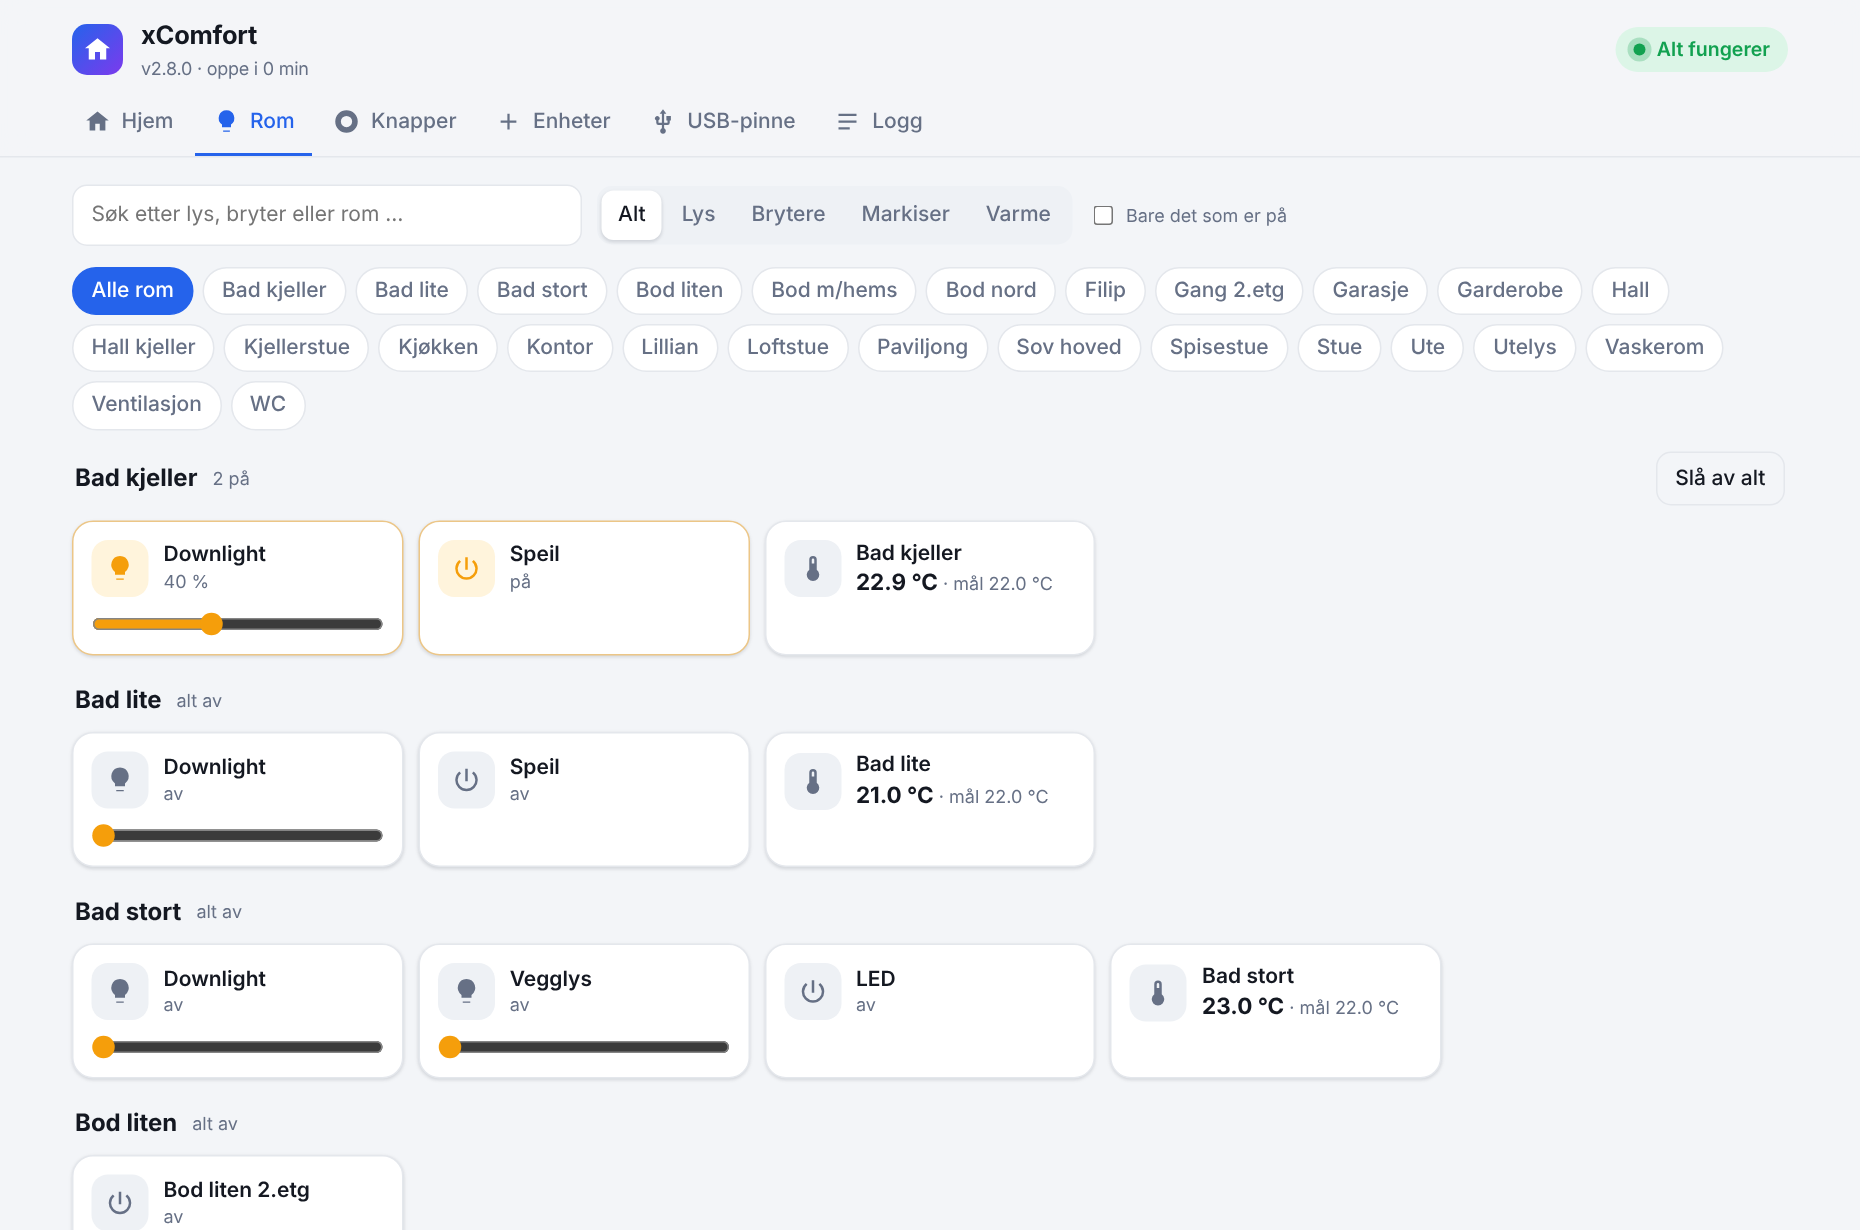
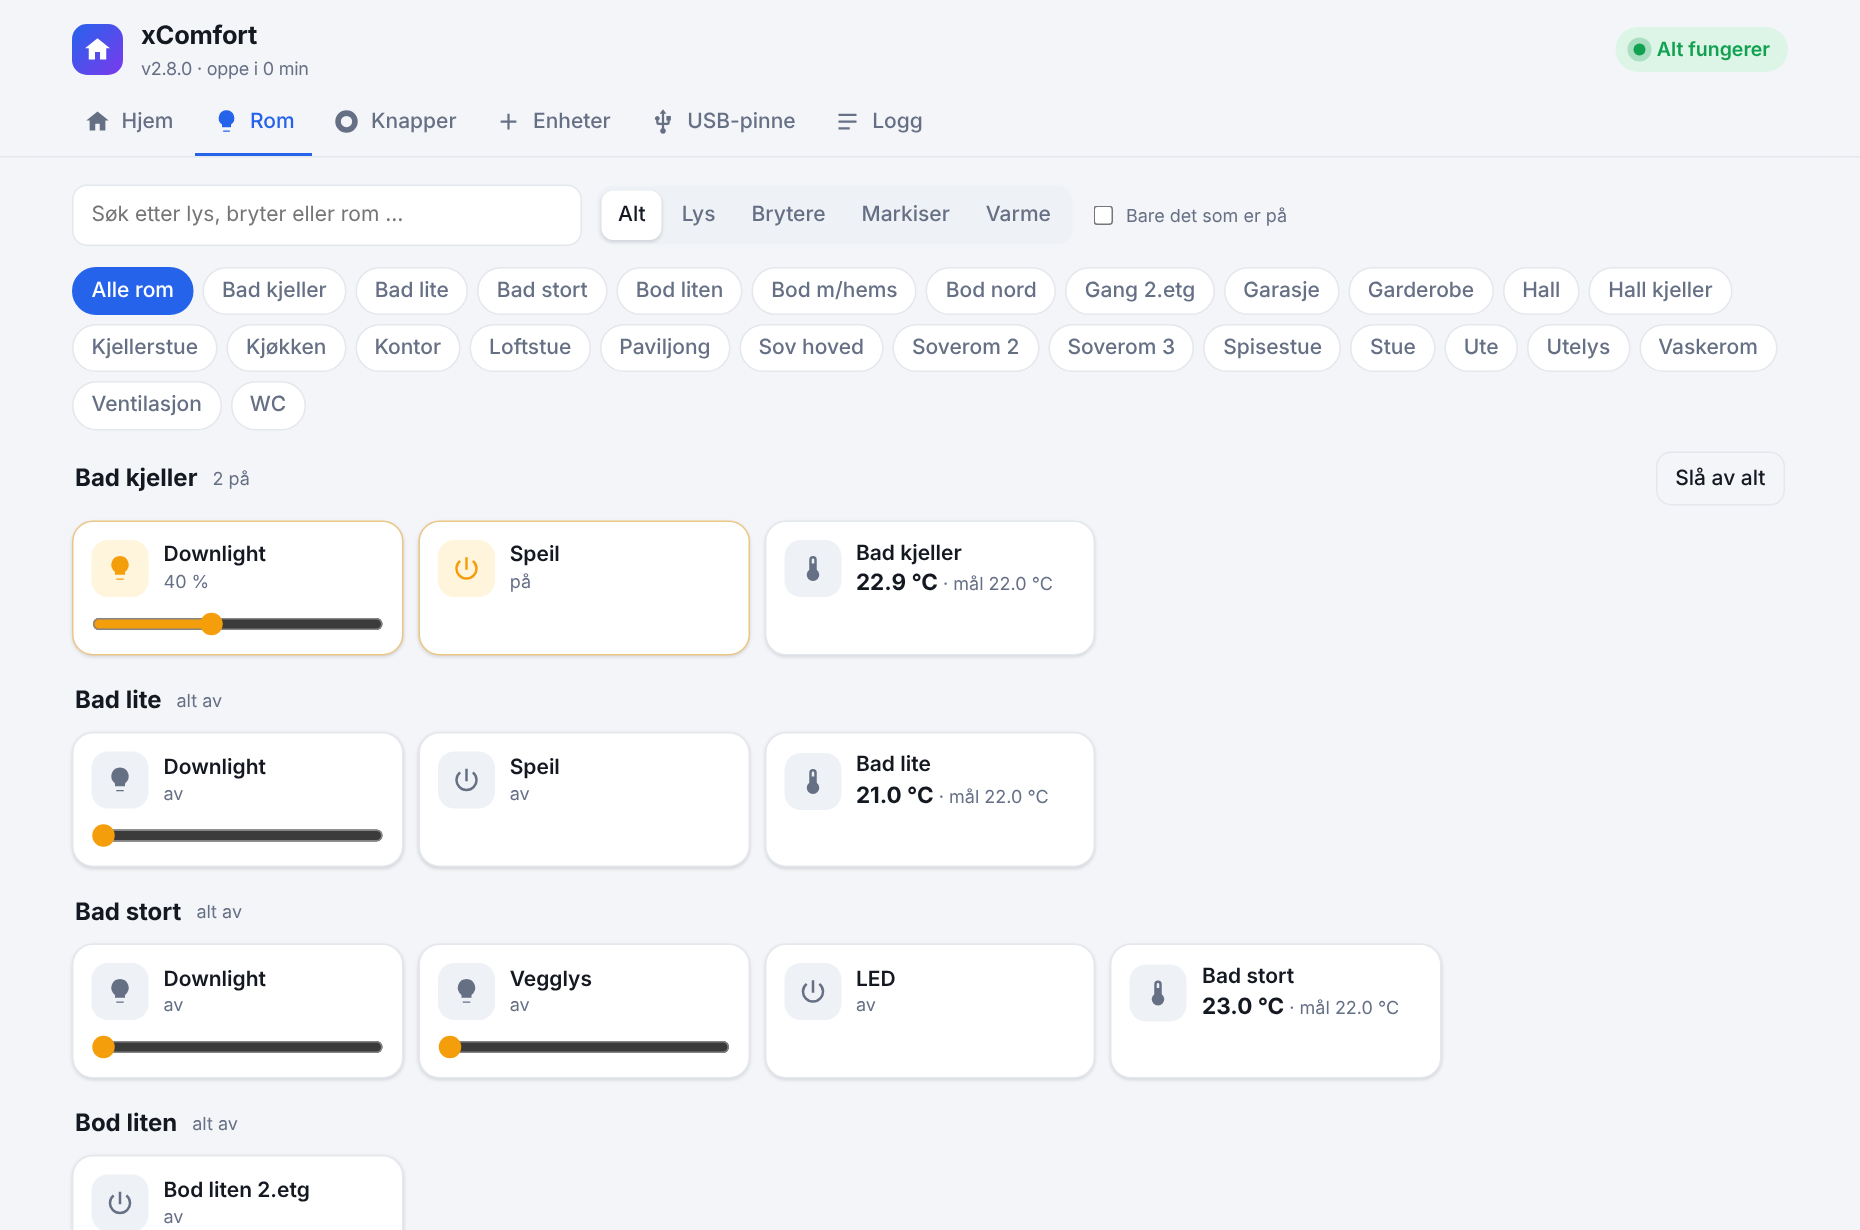
2.8.0

Changed region(s): [[0.0624, 0.278, 0.9355, 0.3089], [0.5925, 0.2163, 0.9043, 0.2472]]

diff --git a/xcomfort_bridge/tests/test_bro.py b/xcomfort_bridge/tests/test_bro.py
@@ -712,7 +712,7 @@ class FakeTransport:
             self.inbox.append(bytes.fromhex("5a1a0301001221a03f00") + serial + b"\x00\x80\x00\x00\x00"
                               + bytes(6) + b"\xa5")
         if data[2] == 0x44:
-            self.inbox.append(b"\x5a\x18\x44CKOZ-00/13ET20250\x00\x30\x0b\xa5")
+            self.inbox.append(b"\x5a\x18\x44CKOZ-00/13ET00000\x00\x30\x0b\xa5")
 
     def read(self, timeout_ms):
         if self.inbox:
@@ -727,18 +727,21 @@ class FakeTransport:
 class TestUsbPinne(unittest.TestCase):
     def test_rammer_er_like_mrf(self):
         import usbstick
-        self.assertEqual(usbstick.rf_frame(0x50, 9290836, b"", 0x12).hex(" "),
-                         "5a 17 1b 50 00 13 12 82 07 00 80 00 00 00 00 54 c4 8d 00 00 be 75 a5")
-        self.assertEqual(usbstick.level_frame(2746356, 10.2, 0x10).hex(" "),
-                         "5a 19 1b 5a 00 15 10 82 07 00 80 00 00 00 00 f4 e7 29 00 01 00 1a 98 2a a5")
-        self.assertEqual(usbstick.level_frame(9290836, 0, 0x12)[3], 0x51)
+        # CRC-16/Kermit, standard testvektor. Rammene under er bygd likt med
+        # det MRF sender (serienumrene er oppdiktede, ikke fra et ekte anlegg).
+        self.assertEqual(usbstick.crc16_kermit(b"123456789"), 0x2189)
+        self.assertEqual(usbstick.rf_frame(0x50, 1234567, b"", 0x12).hex(" "),
+                         "5a 17 1b 50 00 13 12 82 07 00 80 00 00 00 00 87 d6 12 00 00 2c ae a5")
+        self.assertEqual(usbstick.level_frame(2000001, 10.2, 0x10).hex(" "),
+                         "5a 19 1b 5a 00 15 10 82 07 00 80 00 00 00 00 81 84 1e 00 01 00 1a b6 a4 a5")
+        self.assertEqual(usbstick.level_frame(1234567, 0, 0x12)[3], 0x51)
 
     def test_kvittering_tolkes(self):
         import usbstick
         st = usbstick.UsbStick(transport_factory=lambda: None)
-        st.feed(bytes.fromhex("5a1a0301001224a03f0054c48d0000800000001717059a02fea5"))
-        self.assertTrue(st.acked_since(9290836, 0))
-        self.assertFalse(st.acked_since(6519513, 0))
+        st.feed(bytes.fromhex("5a1a0301001224a03f0087d6120000800000001717059a02fea5"))
+        self.assertTrue(st.acked_since(1234567, 0))
+        self.assertFalse(st.acked_since(7654321, 0))
 
     def test_uten_pyusb_eller_pinne_brukes_home_manager(self):
         import usbstick
@@ -754,7 +757,7 @@ class TestUsbPinne(unittest.TestCase):
         threading.Thread(target=stick.run, daemon=True).start()
         bro.STICK = stick
         smux = xc.LIGHTS[0][2]
-        bro.USB_MAP = {smux: [2746356, 2746386]}
+        bro.USB_MAP = {smux: [2000001, 2000002]}
         xc.save_cache({str(smux): {"name": "D_A", "val_id": 110, "set_id": 210}})
         return bro, xc, stick, smux
 
@@ -767,7 +770,7 @@ class TestUsbPinne(unittest.TestCase):
             bro._process_command_batch(client, [("light", smux, b'{"state":"ON","brightness":40}')])
             rf = [w for w in tr.written if w[2] == 0x1B]
             self.assertEqual(len(rf), 2)
-            self.assertEqual({int.from_bytes(w[15:19], "little") for w in rf}, {2746356, 2746386})
+            self.assertEqual({int.from_bytes(w[15:19], "little") for w in rf}, {2000001, 2000002})
             self.assertTrue(all(w[3] == 0x5A and w[21] == 102 for w in rf))  # 40 % = 102 av 255
             self.assertEqual(fake.commands("set_value"), [])
             self.assertEqual(json.loads(client.last(f"xcomfort/light/{smux}/state")),
@@ -776,7 +779,7 @@ class TestUsbPinne(unittest.TestCase):
             self.assertNotIn(smux, bro.PENDING_CONFIRM)
             self.assertEqual(bro.USB_STATS["bekreftet"], 1)
             time.sleep(0.3)
-            bro._check_usb_acks([(smux, 40, [2746356, 2746386])], time.time() - 1)
+            bro._check_usb_acks([(smux, 40, [2000001, 2000002])], time.time() - 1)
             self.assertEqual(bro._pending_commands, [])
             stick.stopping = True
         finally:
@@ -790,7 +793,7 @@ class TestUsbPinne(unittest.TestCase):
             client = FakeClient()
             t0 = time.time()
             bro._process_command_batch(client, [("light", smux, b'{"state":"ON","brightness":40}')])
-            bro._check_usb_acks([(smux, 40, [2746356, 2746386], bro.LAST_CMD_AT[smux])], t0)
+            bro._check_usb_acks([(smux, 40, [2000001, 2000002], bro.LAST_CMD_AT[smux])], t0)
             self.assertEqual(len(bro._pending_commands), 1)
             batch = bro._pending_commands[:]
             bro._pending_commands.clear()
@@ -860,7 +863,7 @@ class TestLysstyring(TestUsbPinne):
             bro.OPTS["lysstyring"] = "pinne"
             t0 = time.time()
             bro._process_command_batch(FakeClient(), [("light", smux, b'{"state":"ON","brightness":30}')])
-            bro._check_usb_acks([(smux, 30, [2746356, 2746386], bro.LAST_CMD_AT[smux])], t0, fallback=False)
+            bro._check_usb_acks([(smux, 30, [2000001, 2000002], bro.LAST_CMD_AT[smux])], t0, fallback=False)
             self.assertEqual(bro._pending_commands, [])
             self.assertEqual(fake.commands("set_value"), [])
             self.assertEqual(bro.USB_STATS["ubekreftet"], 1)
@@ -929,7 +932,7 @@ class TestUsbBekreftHM(TestUsbPinne):
             t0 = time.time()
             bro._process_command_batch(FakeClient(), [("light", smux, b'{"state":"ON","brightness":40}')])
             bro.PENDING_CONFIRM.pop(smux, None)   # lampa har meldt 40 % til Home Manager
-            bro._check_usb_acks([(smux, 40, [2746356, 2746386], bro.LAST_CMD_AT[smux])], t0)
+            bro._check_usb_acks([(smux, 40, [2000001, 2000002], bro.LAST_CMD_AT[smux])], t0)
             self.assertEqual(bro._pending_commands, [])
             self.assertEqual(bro.USB_STATS["bekreftet_hm"], 1)
             stick.stopping = True
@@ -944,7 +947,7 @@ class TestUsbBekreftHM(TestUsbPinne):
             t0 = time.time()
             bro._process_command_batch(FakeClient(), [("light", smux, b'{"state":"ON","brightness":40}')])
             bro.LAST_CMD_AT[smux] = t0 + 5   # en nyere kommando er gitt
-            bro._check_usb_acks([(smux, 40, [2746356, 2746386])], t0)
+            bro._check_usb_acks([(smux, 40, [2000001, 2000002])], t0)
             self.assertEqual(bro._pending_commands, [])
             stick.stopping = True
         finally:
@@ -953,7 +956,7 @@ class TestUsbBekreftHM(TestUsbPinne):
     def test_diagnose_teller_mottatte_rammer(self):
         import usbstick
         st = usbstick.UsbStick(transport_factory=lambda: None)
-        st.feed(bytes.fromhex("5a1a0301001224a03f0054c48d0000800000001717059a02fea5"))
+        st.feed(bytes.fromhex("5a1a0301001224a03f0087d6120000800000001717059a02fea5"))
         snap = st.snapshot()
         self.assertEqual((snap["mottatt"], snap["radio_mottatt"], snap["kvitteringer"]), (1, 1, 1))
 
@@ -997,9 +1000,9 @@ class TestUsbLesing(unittest.TestCase):
         threading.Thread(target=st.run, daemon=True).start()
         time.sleep(0.3)
         self.assertTrue(st.healthy())
-        self.assertIsNotNone(st.set_levels([(9290836, 50)]))
+        self.assertIsNotNone(st.set_levels([(1234567, 50)]))
         time.sleep(0.3)
-        self.assertTrue(st.acked_since(9290836, 0))
+        self.assertTrue(st.acked_since(1234567, 0))
         st.stopping = True
 
     def test_pinne_som_faller_ut_kobles_til_igjen(self):
@@ -1193,9 +1196,9 @@ class TestUsbLaering(unittest.TestCase):
             def fake_queue(kind, smux, payload):
                 sent.append((smux, json.loads(payload)))
                 self.assertIn(smux, bro._learning)          # skal gå via Home Manager
-                bro._on_usb_radio(b"", (0x5A, 6519513, 4242))  # tilfeldig trafikk, bare første gang
+                bro._on_usb_radio(b"", (0x5A, 7654321, 4242))  # tilfeldig trafikk, bare første gang
                 for s in dimmere[smux]:
-                    bro._on_usb_radio(b"", (0x5A, 6519513, s))
+                    bro._on_usb_radio(b"", (0x5A, 7654321, s))
                 bro._on_usb_radio(b"", (0x01, 111, 128))   # kvittering til pinnen, ikke en kommando
             bro._queue_command = fake_queue
             # 4242 høres bare i første runde:
@@ -1241,8 +1244,8 @@ class TestUsbOmsending(unittest.TestCase):
         st = usbstick.UsbStick(transport_factory=lambda: tr)
         self.assertTrue(st.connect())
         threading.Thread(target=st.run, daemon=True).start()
-        t0, acked = st.set_levels([(9290836, 50)])
-        self.assertEqual(acked, {9290836})
+        t0, acked = st.set_levels([(1234567, 50)])
+        self.assertEqual(acked, {1234567})
         self.assertEqual(st.retries, 1)
         self.assertEqual(len([w for w in tr.written if w[2] == 0x1B]), 2)
         st.stopping = True
@@ -1252,9 +1255,9 @@ class TestUsbOmsending(unittest.TestCase):
         try:
             bro, xc = load_bridge(fake)
             smux = xc.LIGHTS[0][2]
-            bro.save_usb_map({smux: [9290836]})
[1 lines of base64/hex data omitted]
-            bro._on_usb_radio(frame, (0x53, 6519513, 9290836))
+            bro.save_usb_map({smux: [1234567]})
[1 lines of base64/hex data omitted]
+            bro._on_usb_radio(frame, (0x53, 7654321, 1234567))
             self.assertEqual(bro.RADIO_LOG[-1]["retning"], "til dimmer")
         finally:
             fake.close()
